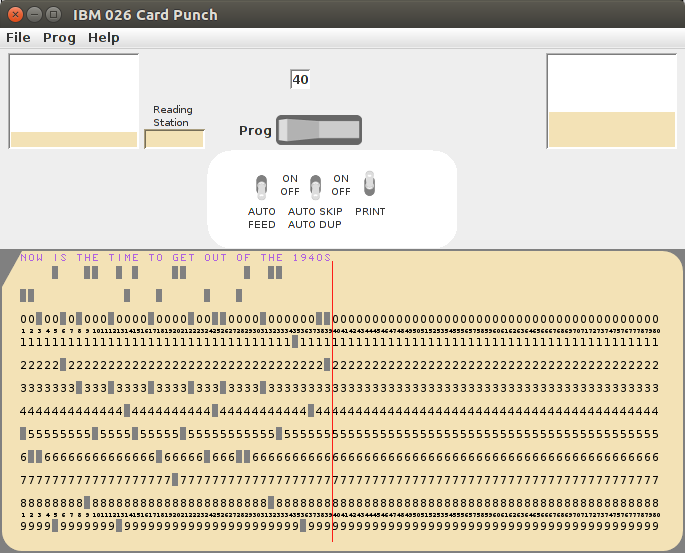
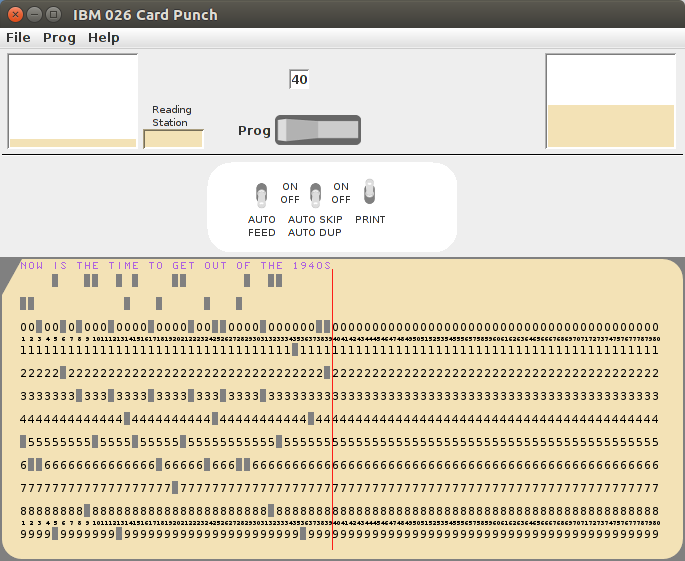
Improve appearance

diff --git a/cardpunch/PunchCardDeck.java b/cardpunch/PunchCardDeck.java
@@ -219,7 +219,6 @@ class PunchCardDeck extends PunchCard
 		_clear_bn.addActionListener(this);
 		_clear_bn.setFocusable(false);
 
-		pn_gb = new GridBagLayout();
 		pn_gc = new GridBagConstraints();
 		pn_gc.fill = GridBagConstraints.NONE;
 		pn_gc.gridx = 0;
@@ -233,11 +232,12 @@ class PunchCardDeck extends PunchCard
 		pn_gc.insets.left = 0;
 		pn_gc.insets.right = 0;
 		pn_gc.anchor = GridBagConstraints.CENTER;
-		pn_pn = new JPanel();
+		pn_gb = new GridBagLayout();
+		JPanel hp = pn_pn = new JPanel();
 		pn_pn.setLayout(pn_gb);
-		pn_pn.setPreferredSize(new Dimension(_image.getIconWidth() + 2 * _inset, 100));
+		pn_pn.setPreferredSize(new Dimension(_image.getIconWidth() + 2 * _inset, 108));
 		hopperPanel(opts);
-		JPanel hp = pn_pn;
+		pn_gb = new GridBagLayout();
 		pn_pn = new JPanel();
 		pn_pn.setLayout(pn_gb);
 		pn_pn.setPreferredSize(new Dimension(_image.getIconWidth() + 2 * _inset, 100));
@@ -421,7 +421,7 @@ class PunchCardDeck extends PunchCard
 	}
 
 	private JPanel ibm026Switches(CardPunchOptions opts) {
-		JPanel pan = new Ibm026SwitchPlate(250, 98, 48);
+		JPanel pan = new Ibm026SwitchPlate(250, 90, 48);
 		GridBagLayout gb = new GridBagLayout();
 		pan.setLayout(gb);
 		GridBagConstraints gc = new GridBagConstraints();
@@ -511,9 +511,23 @@ class PunchCardDeck extends PunchCard
 	}
 
 	private void ibm026Panel(CardPunchOptions opts) {
-		pn_gc.gridheight = 3;
+		pn_gc.gridx = 0;
+		pn_gc.gridy = 0;
+		pn_gc.gridheight = 1;
+		pn_gc.gridwidth = 3;
 		JPanel spc = new JPanel();
-		spc.setPreferredSize(new Dimension(200, 90));
+		spc.setPreferredSize(new Dimension(200, 5));
+		pn_gb.setConstraints(spc, pn_gc);
+		pn_pn.add(spc);
+		pn_gc.gridy = 2;
+		spc = new JPanel();
+		spc.setPreferredSize(new Dimension(200, 5));
+		pn_gb.setConstraints(spc, pn_gc);
+		pn_pn.add(spc);
+		pn_gc.gridy = 1;
+		pn_gc.gridwidth = 1;
+		spc = new JPanel();
+		spc.setPreferredSize(new Dimension(200, 20));
 		pn_gb.setConstraints(spc, pn_gc);
 		pn_pn.add(spc);
 		++pn_gc.gridx;
@@ -531,6 +545,8 @@ class PunchCardDeck extends PunchCard
 	private void hopperPanel(CardPunchOptions opts) {
 		// First, the hoppers and program drum...
 		pn_gc.anchor = GridBagConstraints.SOUTH;
+		pn_gc.gridx = 0;
+		pn_gc.gridy = 0;
 		JPanel spc = new JPanel();
 		spc.setPreferredSize(new Dimension(5, 20));
 		pn_gc.gridheight = 3;
@@ -591,6 +607,21 @@ class PunchCardDeck extends PunchCard
 		pn_gb.setConstraints(spc, pn_gc);
 		pn_pn.add(spc);
 		++pn_gc.gridx;
+		pn_gc.gridy += pn_gc.gridheight;
+		pn_gc.gridheight = 1;
+		pn_gc.gridwidth = pn_gc.gridx;
+		pn_gc.gridx = 0;
+		spc = new JPanel();
+		spc.setPreferredSize(new Dimension(5, 5));
+		pn_gb.setConstraints(spc, pn_gc);
+		pn_pn.add(spc);
+		++pn_gc.gridy;
+		JSeparator sp = new JSeparator(SwingConstants.HORIZONTAL);
+		sp.setPreferredSize(new Dimension(_image.getIconWidth(), 3));
+		sp.setForeground(Color.black);
+		pn_gb.setConstraints(sp, pn_gc);
+		pn_pn.add(sp);
+		pn_gc.gridwidth = 1;
 	}
 
 	private void ibm029Panel(CardPunchOptions opts) {
